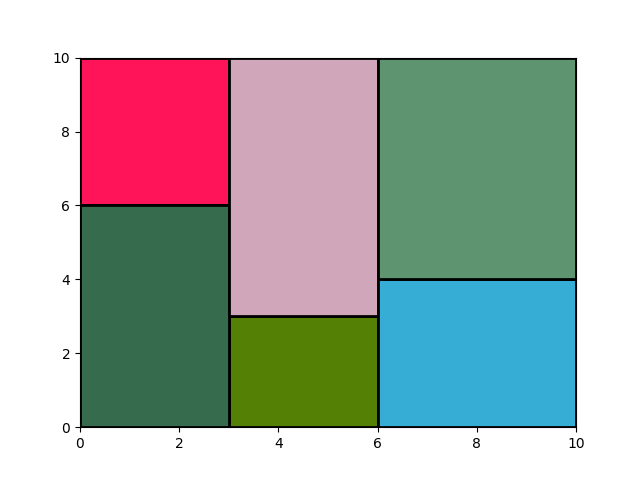
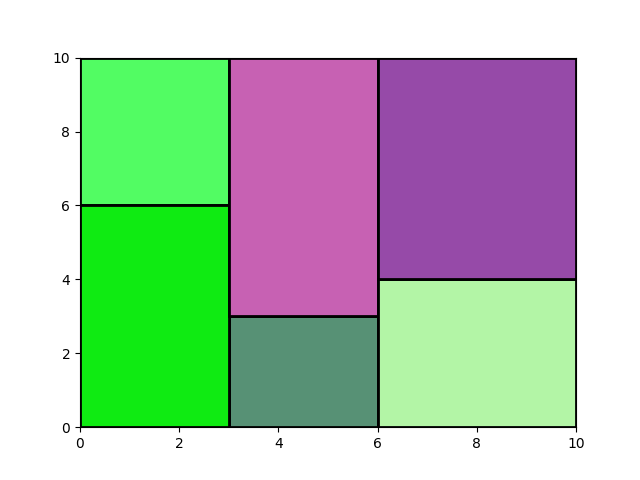
hopefully fixed the plot

diff --git a/utils/utils.py b/utils/utils.py
@@ -95,8 +95,10 @@ def plot_device(pos_x: list, pos_y: list, widths: list, heights: list, w: int, h
 
     """
     if len(rotations) != 0:
-        widths_a = [(widths[i] * (1-rotations[i])) + (heights[i]*rotations[i]) for i in range(0, len(widths))]
-        heights_a = [(heights[i] * (1-rotations[i])) + (widths[i]*rotations[i]) for i in range(0, len(widths))]
+        temp_w = [(widths[i] * (1-rotations[i])) + (heights[i]*rotations[i]) for i in range(0, len(widths))]
+        temp_h = [(heights[i] * (1-rotations[i])) + (widths[i]*rotations[i]) for i in range(0, len(widths))]
+        widths = temp_w
+        heights = temp_h
 
     fig, ax = plt.subplots()
     ax.axis([0, w, 0, h])
@@ -104,7 +106,7 @@ def plot_device(pos_x: list, pos_y: list, widths: list, heights: list, w: int, h
         color = (randint(0,100)/100, randint(0,100)/100, randint(0,100)/100)
         rect = Rectangle(
             (pos_x[i], pos_y[i]),
-            widths_a[i], heights_a[i],
+            widths[i], heights[i],
             facecolor=color,
             edgecolor=(0,0,0),
             linewidth=2,

diff --git a/SMT/src/test.py b/SMT/src/test.py
@@ -36,9 +36,9 @@ def free_solver(w, n, min_h, max_h, chip_w, chip_h):
                                             x_position[j] + chip_w[j] <= x_position[i]))
 
             ##Cumulatively on the columns
-            for u in range(w):
-                solver.add_assertion(h >= Plus([Iff(And(x_position[i] <= u, u < x_position[i] + chip_w[i]),
-                                          chip_h[i], 0) for i in range(n)]))
+            # for u in range(w):
+            #     solver.add_assertion(h >= Plus([Iff(And(x_position[i] <= u, u < x_position[i] + chip_w[i]),
+            #                               chip_h[i], 0) for i in range(n)]))
 
 
             # for u in range(w):
